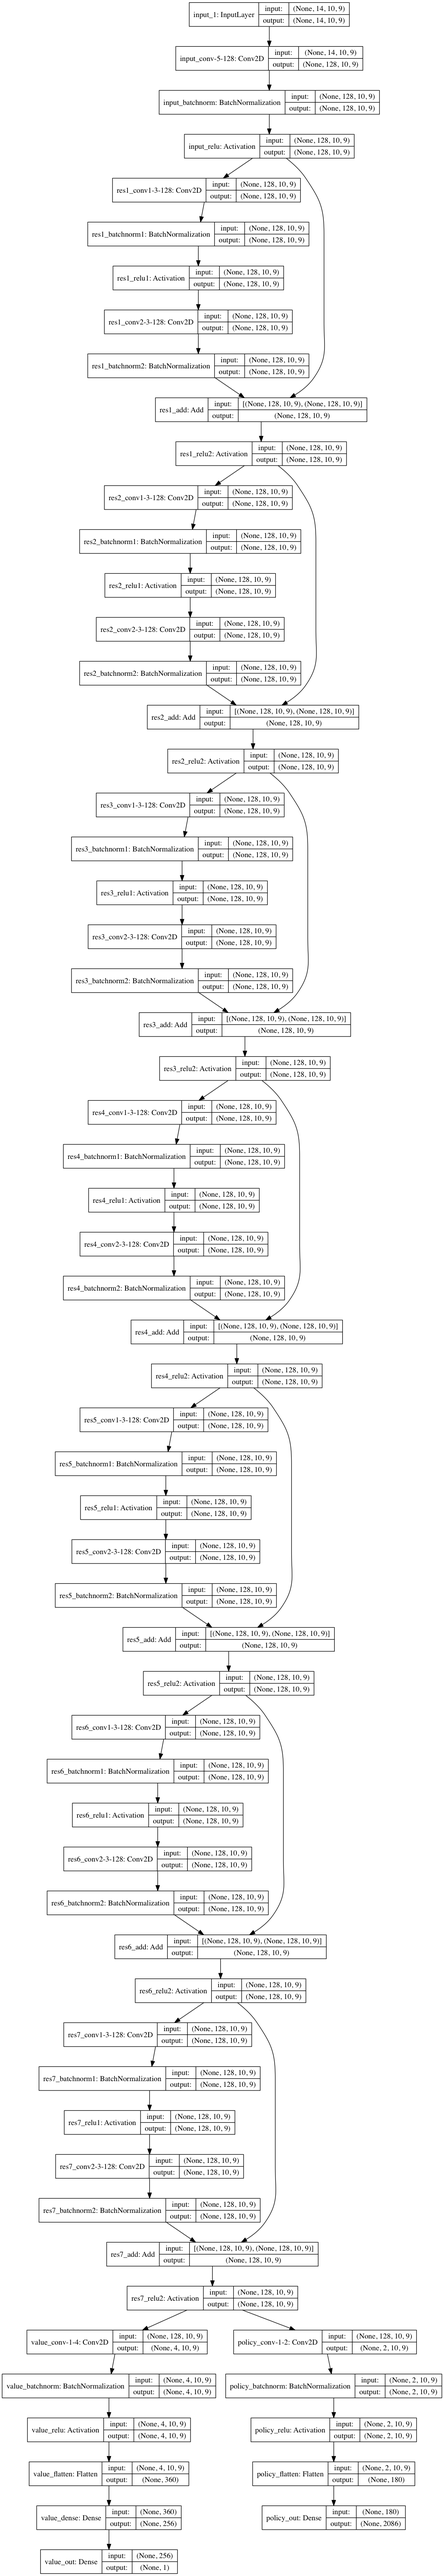
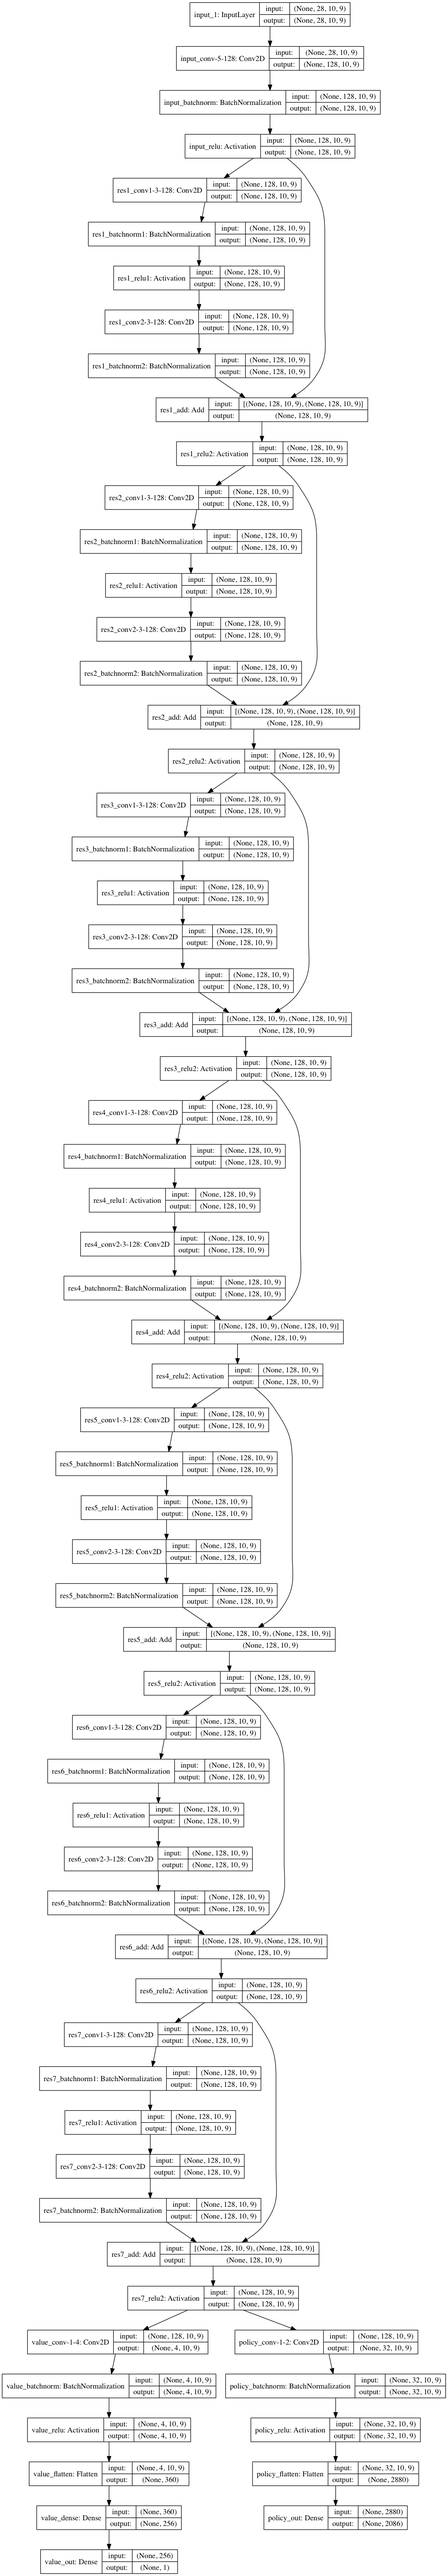
add one-turn history

diff --git a/cchess_alphazero/worker/optimize.py b/cchess_alphazero/worker/optimize.py
@@ -155,7 +155,7 @@ class OptimizeWorker:
                     break
                 filename = self.filenames.pop()
                 # logger.debug("loading data from %s" % (filename))
-                futures.append(executor.submit(load_data_from_file, filename))
+                futures.append(executor.submit(load_data_from_file, filename, self.config.opts.has_history))
             while futures and len(self.dataset[0]) < self.config.trainer.dataset_size: #fill tuples
                 _tuple = futures.popleft().result()
                 if _tuple is not None:
@@ -167,7 +167,7 @@ class OptimizeWorker:
                         logger.info(f"Reading {n - m} files")
                     filename = self.filenames.pop()
                     # logger.debug("loading data from %s" % (filename))
-                    futures.append(executor.submit(load_data_from_file, filename))
+                    futures.append(executor.submit(load_data_from_file, filename, self.config.opts.has_history))
 
     def collect_all_loaded_data(self):
         state_ary, policy_ary, value_ary = self.dataset
@@ -255,7 +255,7 @@ class OptimizeWorker:
                 logger.error(f"Backup error : {e}")
         logger.info(f"backup {len(files)} files")
 
-def load_data_from_file(filename):
+def load_data_from_file(filename, use_history=False):
     try:
         data = read_game_data_from_file(filename)
     except Exception as e:
@@ -264,14 +264,18 @@ def load_data_from_file(filename):
         return None
     if data is None:
         return None
-    return expanding_data(data)
+    return expanding_data(data, use_history)
 
-def expanding_data(data):
+def expanding_data(data, use_history=False):
     state = data[0]
     real_data = []
     action = None
     policy = None
     value = None
+    if use_history:
+        history = [state]
+    else:
+        history = None
     for item in data[1:]:
         action = item[0]
         value = item[1]
@@ -282,22 +286,30 @@ def expanding_data(data):
             return None
         real_data.append([state, policy, value])
         state = senv.step(state, action)
+        if use_history:
+            history.append(action)
+            history.append(state)
         
-    return convert_to_trainging_data(real_data)
+    return convert_to_trainging_data(real_data, history)
 
 
 def convert_to_trainging_data(data):
     state_list = []
     policy_list = []
     value_list = []
+    i = 0
 
     for state, policy, value in data:
-        state_planes = senv.state_to_planes(state)
+        if history is None:
+            state_planes = senv.state_to_planes(state)
+        else:
+            state_planes = senv.state_history_to_planes(state, history[0:i * 2 + 1])
         sl_value = value
 
         state_list.append(state_planes)
         policy_list.append(policy)
         value_list.append(sl_value)
+        i += 1
 
     return np.asarray(state_list, dtype=np.float32), \
            np.asarray(policy_list, dtype=np.float32), \

diff --git a/cchess_alphazero/environment/static_env.py b/cchess_alphazero/environment/static_env.py
@@ -155,6 +155,42 @@ def state_to_planes(state):
                 j += int(letter)
     return planes
 
+def state_history_to_planes(state, history):
+    '''
+    e.g.
+        rkemsmekr/9/1c5c1/p1p1p1p1p/9/9/P1P1P1P1P/1C5C1/9/RKEMSMEKR
+        rkemsmek1/8r/1c5c1/p1p1p1p1p/9/9/P1P1P1P1P/1C5C1/9/RKEMSMEKR
+    '''
+    planes = np.zeros(shape=(28, 10, 9), dtype=np.float32)
+    rows = state.split('/')
+    # 0 ~ 14 for current state
+    for i in range(len(rows)):
+        row = rows[i]
+        j = 0
+        for letter in row:
+            if letter.isalpha():
+                # 0 ~ 7 : upper, 7 ~ 14: lower
+                planes[Fen_2_Idx[letter] + int(letter.islower()) * 7][i][j] = 1
+                j += 1
+            else:
+                j += int(letter)
+    # 14 ~ 28 for last state
+    # history = [...,last state, red action, black state, black action, current state]
+    if history and len(history) >= 5:
+        last_state = history[-5]
+        rows = last_state.split('/')
+        for i in range(len(rows)):
+            row = rows[i]
+            j = 0
+            for letter in row:
+                if letter.isalpha():
+                    # 0 ~ 7 : upper, 7 ~ 14: lower
+                    planes[Fen_2_Idx[letter] + int(letter.islower()) * 7 + 14][i][j] = 1
+                    j += 1
+                else:
+                    j += int(letter)
+    return planes
+
 def board_to_state(board):
     c = 0
     fen = ''

diff --git a/colaboratory/test.py b/colaboratory/test.py
@@ -1,0 +1,41 @@
+import os
+import sys
+import multiprocessing as mp
+
+from logging import getLogger
+
+_PATH_ = os.path.dirname(os.path.dirname(__file__))
+
+if _PATH_ not in sys.path:
+    sys.path.append(_PATH_)
+
+from cchess_alphazero.lib.logger import setup_logger
+from cchess_alphazero.config import Config, PlayWithHumanConfig
+from cchess_alphazero.worker import self_play
+
+def setup_parameters(config):
+    if len(sys.argv) > 1:
+        config.internet.username = sys.argv[1]
+        print(f'用户名设置为：{config.internet.username}')
+    num_cores = mp.cpu_count()
+    max_processes = 2
+    if len(sys.argv) > 2:
+        max_processes = int(sys.argv[2])
+    search_threads = 20
+    print(f"max_processes = {max_processes}, search_threads = {search_threads}")
+    config.play.max_processes = max_processes
+    config.play.search_threads = search_threads
+
+if __name__ == "__main__":
+    sys.setrecursionlimit(10000)
+    config_type = 'distribute'
+    config = Config(config_type=config_type)
+    config.opts.device_list = '0'
+    config.resource.create_directories()
+    setup_logger(config.resource.main_log_path)
+    config.internet.distributed = False
+    config.opts.log_move = True
+    config.opts.has_history = True
+    setup_parameters(config)
+    # config.internet.download_url = 'http://alphazero-1251776088.cossh.myqcloud.com/model/128x7/model_best_weight.h5'
+    self_play.start(config)

diff --git a/cchess_alphazero/agent/model.py b/cchess_alphazero/agent/model.py
@@ -31,7 +31,7 @@ class CChessModel:
 
     def build(self):
         mc = self.config.model
-        in_x = x = Input((14, 10, 9)) # 14 x 10 x 9
+        in_x = x = Input((28, 10, 9)) # (2 x 14) x 10 x 9
 
         # (batch, channels, height, width)
         x = Conv2D(filters=mc.cnn_filter_num, kernel_size=mc.cnn_first_filter_size, padding="same",
@@ -46,7 +46,7 @@ class CChessModel:
         res_out = x
 
         # for policy output
-        x = Conv2D(filters=2, kernel_size=1, data_format="channels_first", use_bias=False, 
+        x = Conv2D(filters=32, kernel_size=1, data_format="channels_first", use_bias=False, 
                     kernel_regularizer=l2(mc.l2_reg), name="policy_conv-1-2")(res_out)
         x = BatchNormalization(axis=1, name="policy_batchnorm")(x)
         x = Activation("relu", name="policy_relu")(x)

diff --git a/cchess_alphazero/test.py b/cchess_alphazero/test.py
@@ -295,9 +295,11 @@ def plot_model():
     from keras.utils import plot_model
     from cchess_alphazero.agent.model import CChessModel
     from cchess_alphazero.config import Config
+    from cchess_alphazero.lib.model_helper import save_as_best_model
     config = Config('distribute')
     model = CChessModel(config)
     model.build()
+    save_as_best_model(model)
     plot_model(model.model, to_file='model.png', show_shapes=True, show_layer_names=True)
 
 def test_check_and_catch():
@@ -307,5 +309,5 @@ def test_check_and_catch():
     print(senv.will_check_or_catch(state, action))
 
 if __name__ == "__main__":
-    test_check_and_catch()
+    plot_model()
     

diff --git a/cchess_alphazero/agent/player.py b/cchess_alphazero/agent/player.py
@@ -306,7 +306,10 @@ class CChessPlayer:
         '''
         Evaluate the state, return its policy and value computed by neural network
         '''
-        state_planes = senv.state_to_planes(state)
+        if self.config.opts.has_history:
+            state_planes = senv.state_history_to_planes(state, history)
+        else:
+            state_planes = senv.state_to_planes(state)
         with self.q_lock:
             self.buffer_planes.append(state_planes)
             self.buffer_history.append(history)

diff --git a/cchess_alphazero/config.py b/cchess_alphazero/config.py
@@ -85,6 +85,7 @@ class Options:
     use_multiple_gpus = False
     gpu_num = 1
     evaluate = False
+    has_history = True
 
 class PlayWithHumanConfig:
     def __init__(self):
